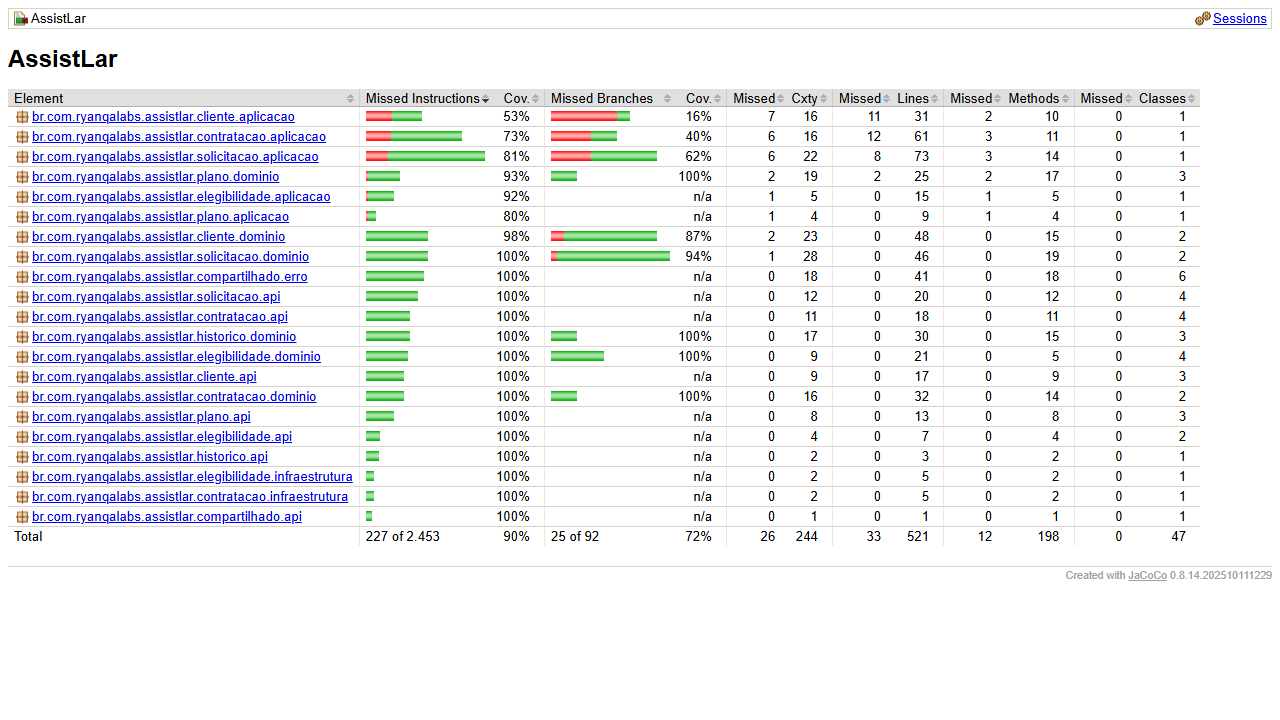
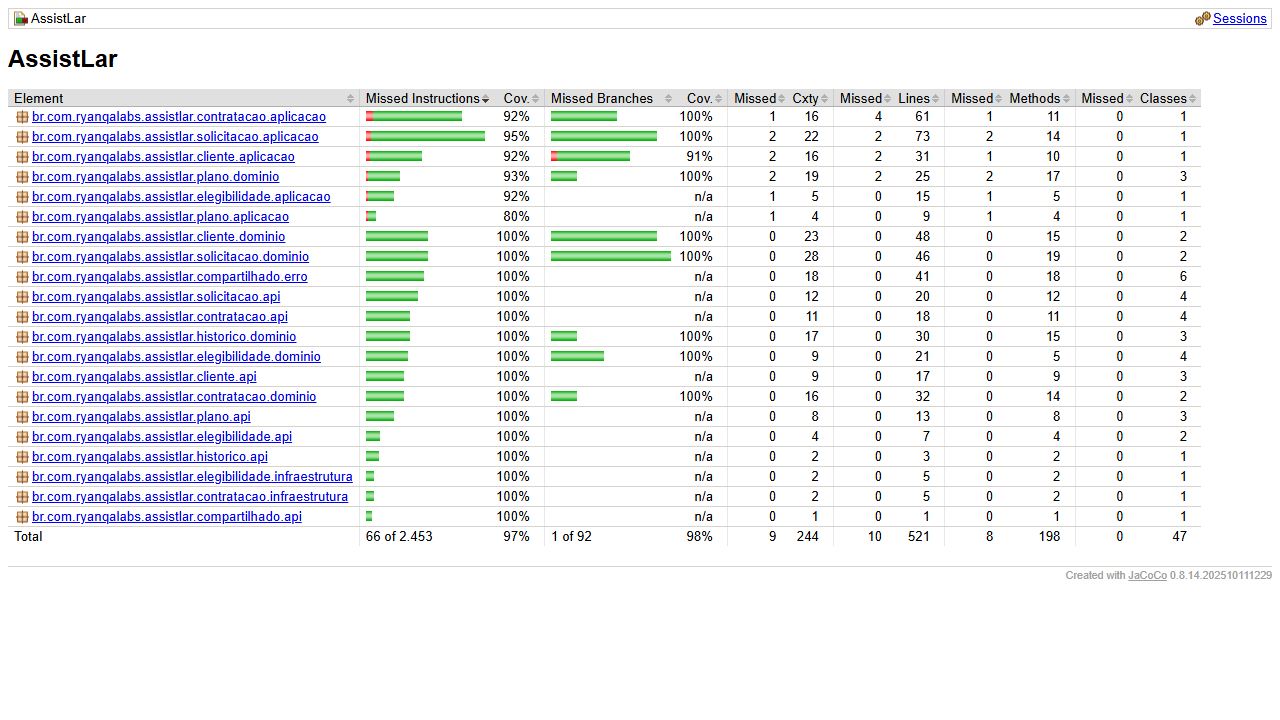
docs: atualiza metricas e evidencias de qualidade

diff --git a/docs/cenarios-de-teste.md b/docs/cenarios-de-teste.md
@@ -17,6 +17,8 @@ e referência para a automação existente, em [cenarios-bdd.md](cenarios-bdd.md
 | CLI-06 | normalizar e-mail e impedir duplicidade case-insensitive | integração/API |
 | CLI-07 | rejeitar nome com menos de 3 caracteres úteis | unitário/API |
 | CLI-08 | inativar e reativar | unitário/API |
+| CLI-09 | listar e buscar clientes por e-mail sem diferenciar maiúsculas | integração/API |
+| CLI-10 | rejeitar página negativa e tamanho fora do intervalo de 1 a 100 | integração/API |
 
 ## Elegibilidade
 
@@ -39,6 +41,7 @@ e referência para a automação existente, em [cenarios-bdd.md](cenarios-bdd.md
 | CON-05 | permitir nova contratação após cancelamento | API |
 | CON-06 | impedir cancelamento com solicitação ativa | integração/API |
 | CON-07 | duas inserções simultâneas geram um sucesso e um conflito | concorrência/banco |
+| CON-08 | listar por cliente e rejeitar limites inválidos de paginação | integração/API |
 
 ## Solicitação e limites
 
@@ -56,6 +59,7 @@ e referência para a automação existente, em [cenarios-bdd.md](cenarios-bdd.md
 | SOL-10 | COMPLETO aceitar dois usos e rejeitar o terceiro | API |
 | SOL-11 | aberturas simultâneas não ultrapassarem limite | concorrência |
 | SOL-12 | dois inícios simultâneos produzirem uma transição | concorrência/optimistic locking |
+| SOL-13 | listar por contratação e rejeitar limites inválidos de paginação | integração/API |
 
 ## Contrato e operação
 
@@ -67,3 +71,11 @@ e referência para a automação existente, em [cenarios-bdd.md](cenarios-bdd.md
 | OPS-01 | Flyway aplicar do zero em PostgreSQL 17.10 | integração |
 | OPS-02 | health exposto e info não exposto | API |
 | OPS-03 | imagem e Compose iniciarem aplicação saudável | container |
+
+## Performance
+
+| ID | Cenário | Nível |
+|---|---|---|
+| PERF-01 | smoke validar health, planos e paginação de clientes sem erros | k6/smoke |
+| PERF-02 | carga simultânea sustentar consultas sem falhas ou iterações descartadas | k6/carga |
+| PERF-03 | tempos p95 e p99 permanecerem dentro dos thresholds por endpoint | k6/carga |

diff --git a/docs/evidencias.md b/docs/evidencias.md
@@ -22,7 +22,7 @@ Baseline local de 20/07/2026: JDK 21 confirmado, Docker Engine 24.0.6 e Docker C
 
 Critério: todos os testes `*Test` aprovados.
 
-Baseline local da v0.2.0: 54 testes rápidos aprovados.
+Baseline local atual da v0.2.0: 55 testes rápidos aprovados.
 
 ## Suíte completa
 
@@ -37,7 +37,9 @@ Critérios:
 - JaCoCo acima de 80% de instruções e 70% de branches;
 - relatório disponível em `target/site/jacoco/index.html`.
 
-Baseline local da v0.2.0 em 26/08/2026: 54 testes rápidos e 30 testes de integração/API aprovados, com 90,75% de instruções e 72,83% de branches cobertos.
+Validação local atual da v0.2.0: 55 testes rápidos e 33 testes de integração/API
+aprovados, com 97,31% de instruções e 98,91% de branches cobertos. A imagem do
+relatório JaCoCo foi atualizada a partir desta execução.
 
 ## Frontend
 
@@ -94,6 +96,22 @@ O workflow de CI foi validado durante o Pull Request e novamente após o merge n
 Uma branch temporária foi criada com um teste contendo uma falha intencional. O GitHub Actions detectou a regressão, e o check obrigatório `Build, testes e qualidade` manteve o botão de merge desabilitado. O Pull Request foi fechado e a branch temporária foi excluída sem integração na `main`.
 
 ![Falha detectada pela CI e merge bloqueado](assets/github-actions-merge-bloqueado.png)
+
+## Performance
+
+Os scripts `smoke-assistlar.js` e `carga-assistlar.js` foram executados com k6
+contra a aplicação local. Na carga controlada, foram concluídas 204 requisições
+com 0% de falhas, 100% dos checks aprovados e nenhuma iteração descartada.
+
+Percentis p95 registrados:
+
+- health: 105,14 ms, abaixo do threshold de 250 ms;
+- planos: 49,57 ms, abaixo do threshold de 500 ms;
+- clientes: 41,31 ms, abaixo do threshold de 750 ms.
+
+Esses números caracterizam apenas o ambiente local da execução. O procedimento,
+os workloads e a justificativa dos thresholds estão em
+[`performance-tests/`](../performance-tests/).
 
 ## Evidências visuais
 

diff --git a/CHANGELOG.md b/CHANGELOG.md
@@ -20,13 +20,14 @@ Todas as alterações relevantes deste projeto serão documentadas neste arquivo
 
 ### Qualidade
 
-- 84 testes automatizados no backend: 54 rápidos e 30 de integração/API;
+- 88 testes automatizados no backend: 55 rápidos e 33 de integração/API;
 - 61 testes Vitest aprovados;
 - 3 testes Cypress Component aprovados;
 - 9 testes Playwright aprovados na matriz completa, com 3 cenários visuais ignorados fora do Chromium;
-- 90,75% de instruções e 72,83% de branches no backend;
+- 97,31% de instruções e 98,91% de branches no backend;
 - 87,62% de statements, 86,24% de branches, 80,70% de functions e 89,09% de lines no frontend;
-- cenário baseline de carga leve com k6 para health e consulta de planos.
+- estratégia de performance com smoke test, carga simultânea sobre health,
+  planos e clientes, além de thresholds por endpoint no k6.
 
 ## [0.1.0] - 2026-07-23
 
